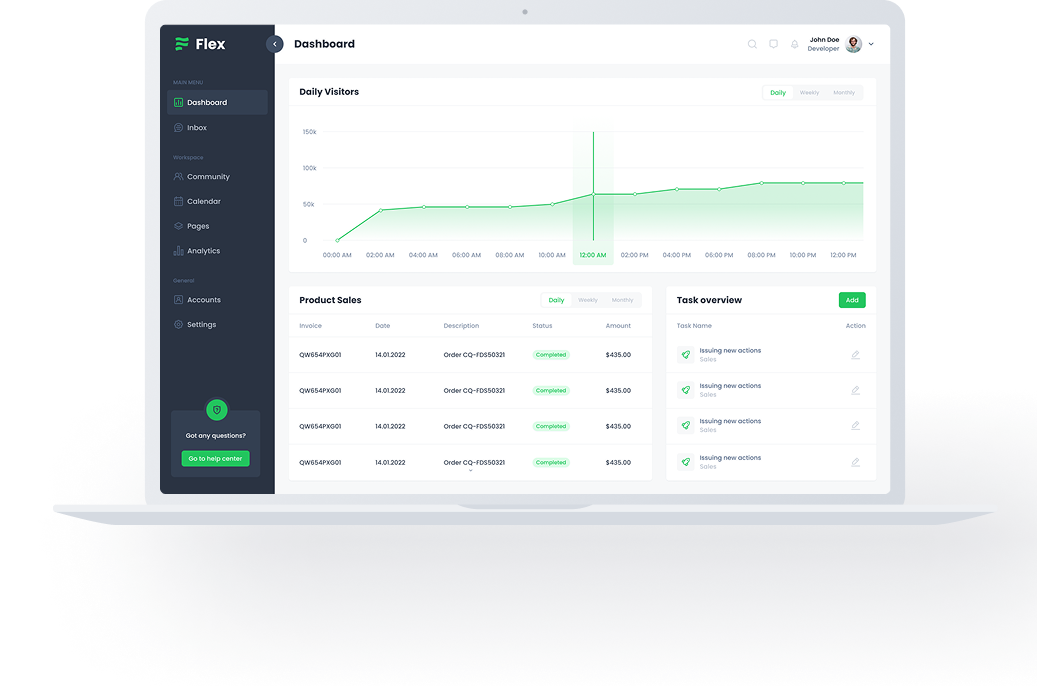
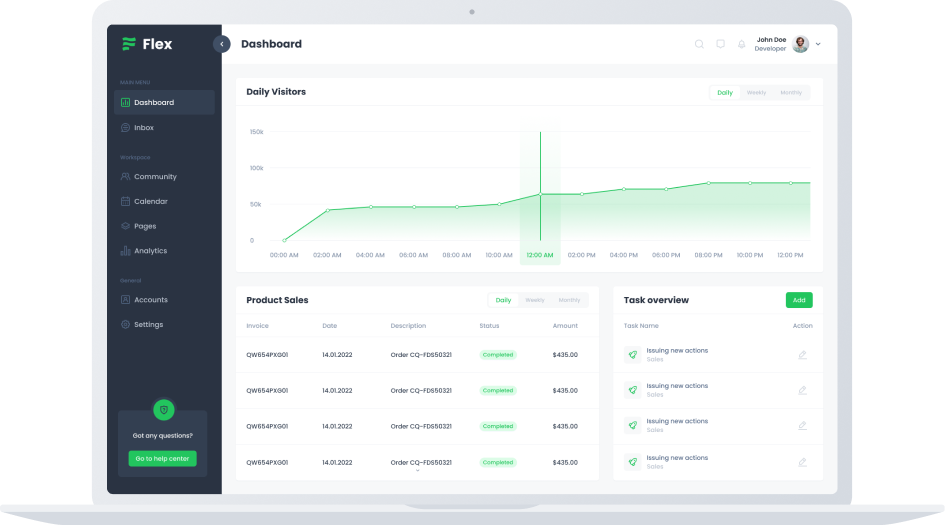
done Herto section

diff --git a/src/components/Hero/Hero.tsx b/src/components/Hero/Hero.tsx
@@ -1,4 +1,11 @@
+import { useState } from "react";
+
 const HeroSection = () => {
+  const [dark, setdark] = useState<boolean>(true);
+  const ChangeDarkstate = (): boolean => {
+    setdark(!dark);
+    return dark;
+  };
   return (
     <>
       <div className="">
@@ -40,12 +47,13 @@ const HeroSection = () => {
             </div>
             <div className="overflow-hidden w-full flex justify-center items-center  relative">
               <img
-                src="/Images/Hero1.png"
+                src={dark ? "/Images/Hero_Dark.png" : "/Images/Hero1.png"}
                 className="max-w-[800px] block z-10 translate-x-15"
               />
               <img
+                onClick={ChangeDarkstate}
                 src="/Images/Parr.png"
-                className="block absolute z-0 w-40 he-40 -translate-x-55 -translate-y-45"
+                className="block absolute z-0 w-40 he-40 -translate-x-50 -translate-y-37"
               />
             </div>
           </div>

diff --git a/src/components/Nav/nav.tsx b/src/components/Nav/nav.tsx
@@ -1,12 +1,17 @@
+import { useState } from "react";
 import { Link } from "react-router-dom";
 const Nav = () => {
-  // const [dark, setdark] = useState<boolean>(false);
+  const [dark, setdark] = useState<boolean>(true);
+  const ChangeDarkstate = (): boolean => {
+    setdark(!dark);
+    return dark;
+  };
   return (
-    <nav className="h-[80px]">
+    <nav className="h-[80px]" onClick={ChangeDarkstate}>
       <div className="container">
         <div className="grid grid-cols-2 items-center justify-center lg:grid-cols-[1fr_6fr_1.5fr] gap-3">
           <div className="h-[80px] flex justify-start items-center">
-            <img src="/Images/Logo.png" />
+            <img src={dark ? "/Images/LogoDark.svg" : "/Images/Logo.png"} />
           </div>
           <div className="hidden lg:block">
             <ul className="h-[80px] flex justify-center items-center space-x-4">
